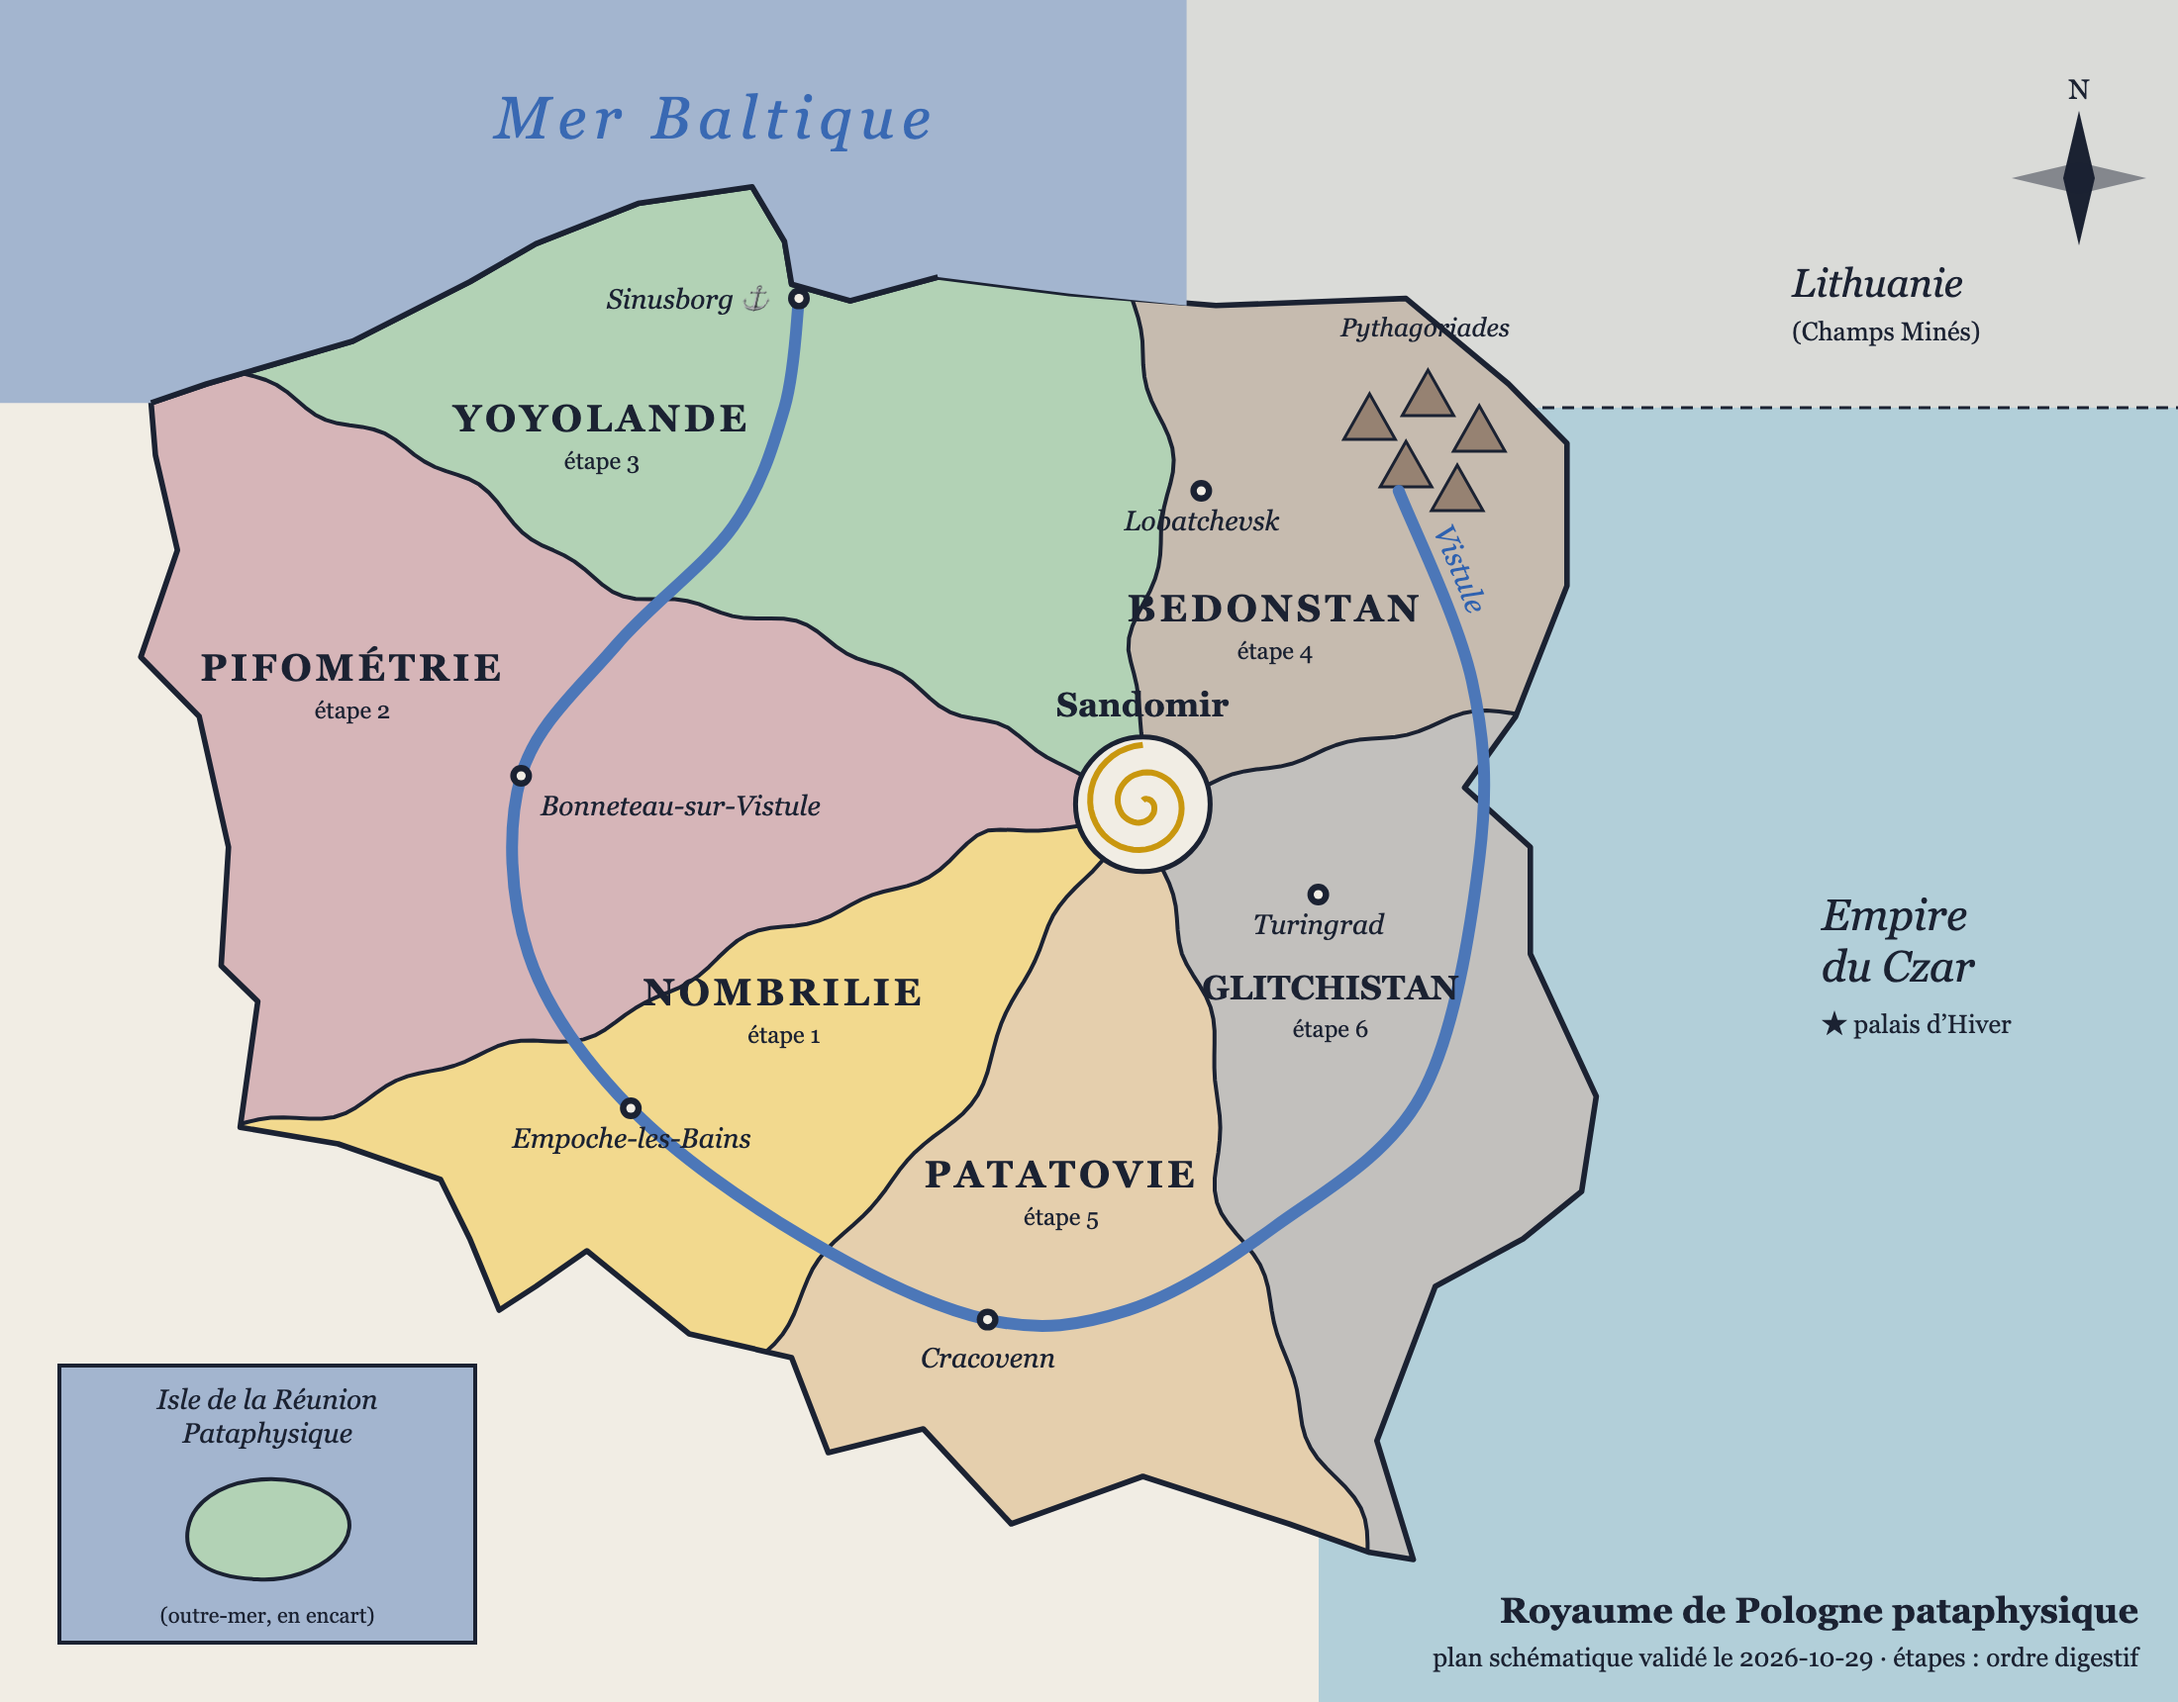
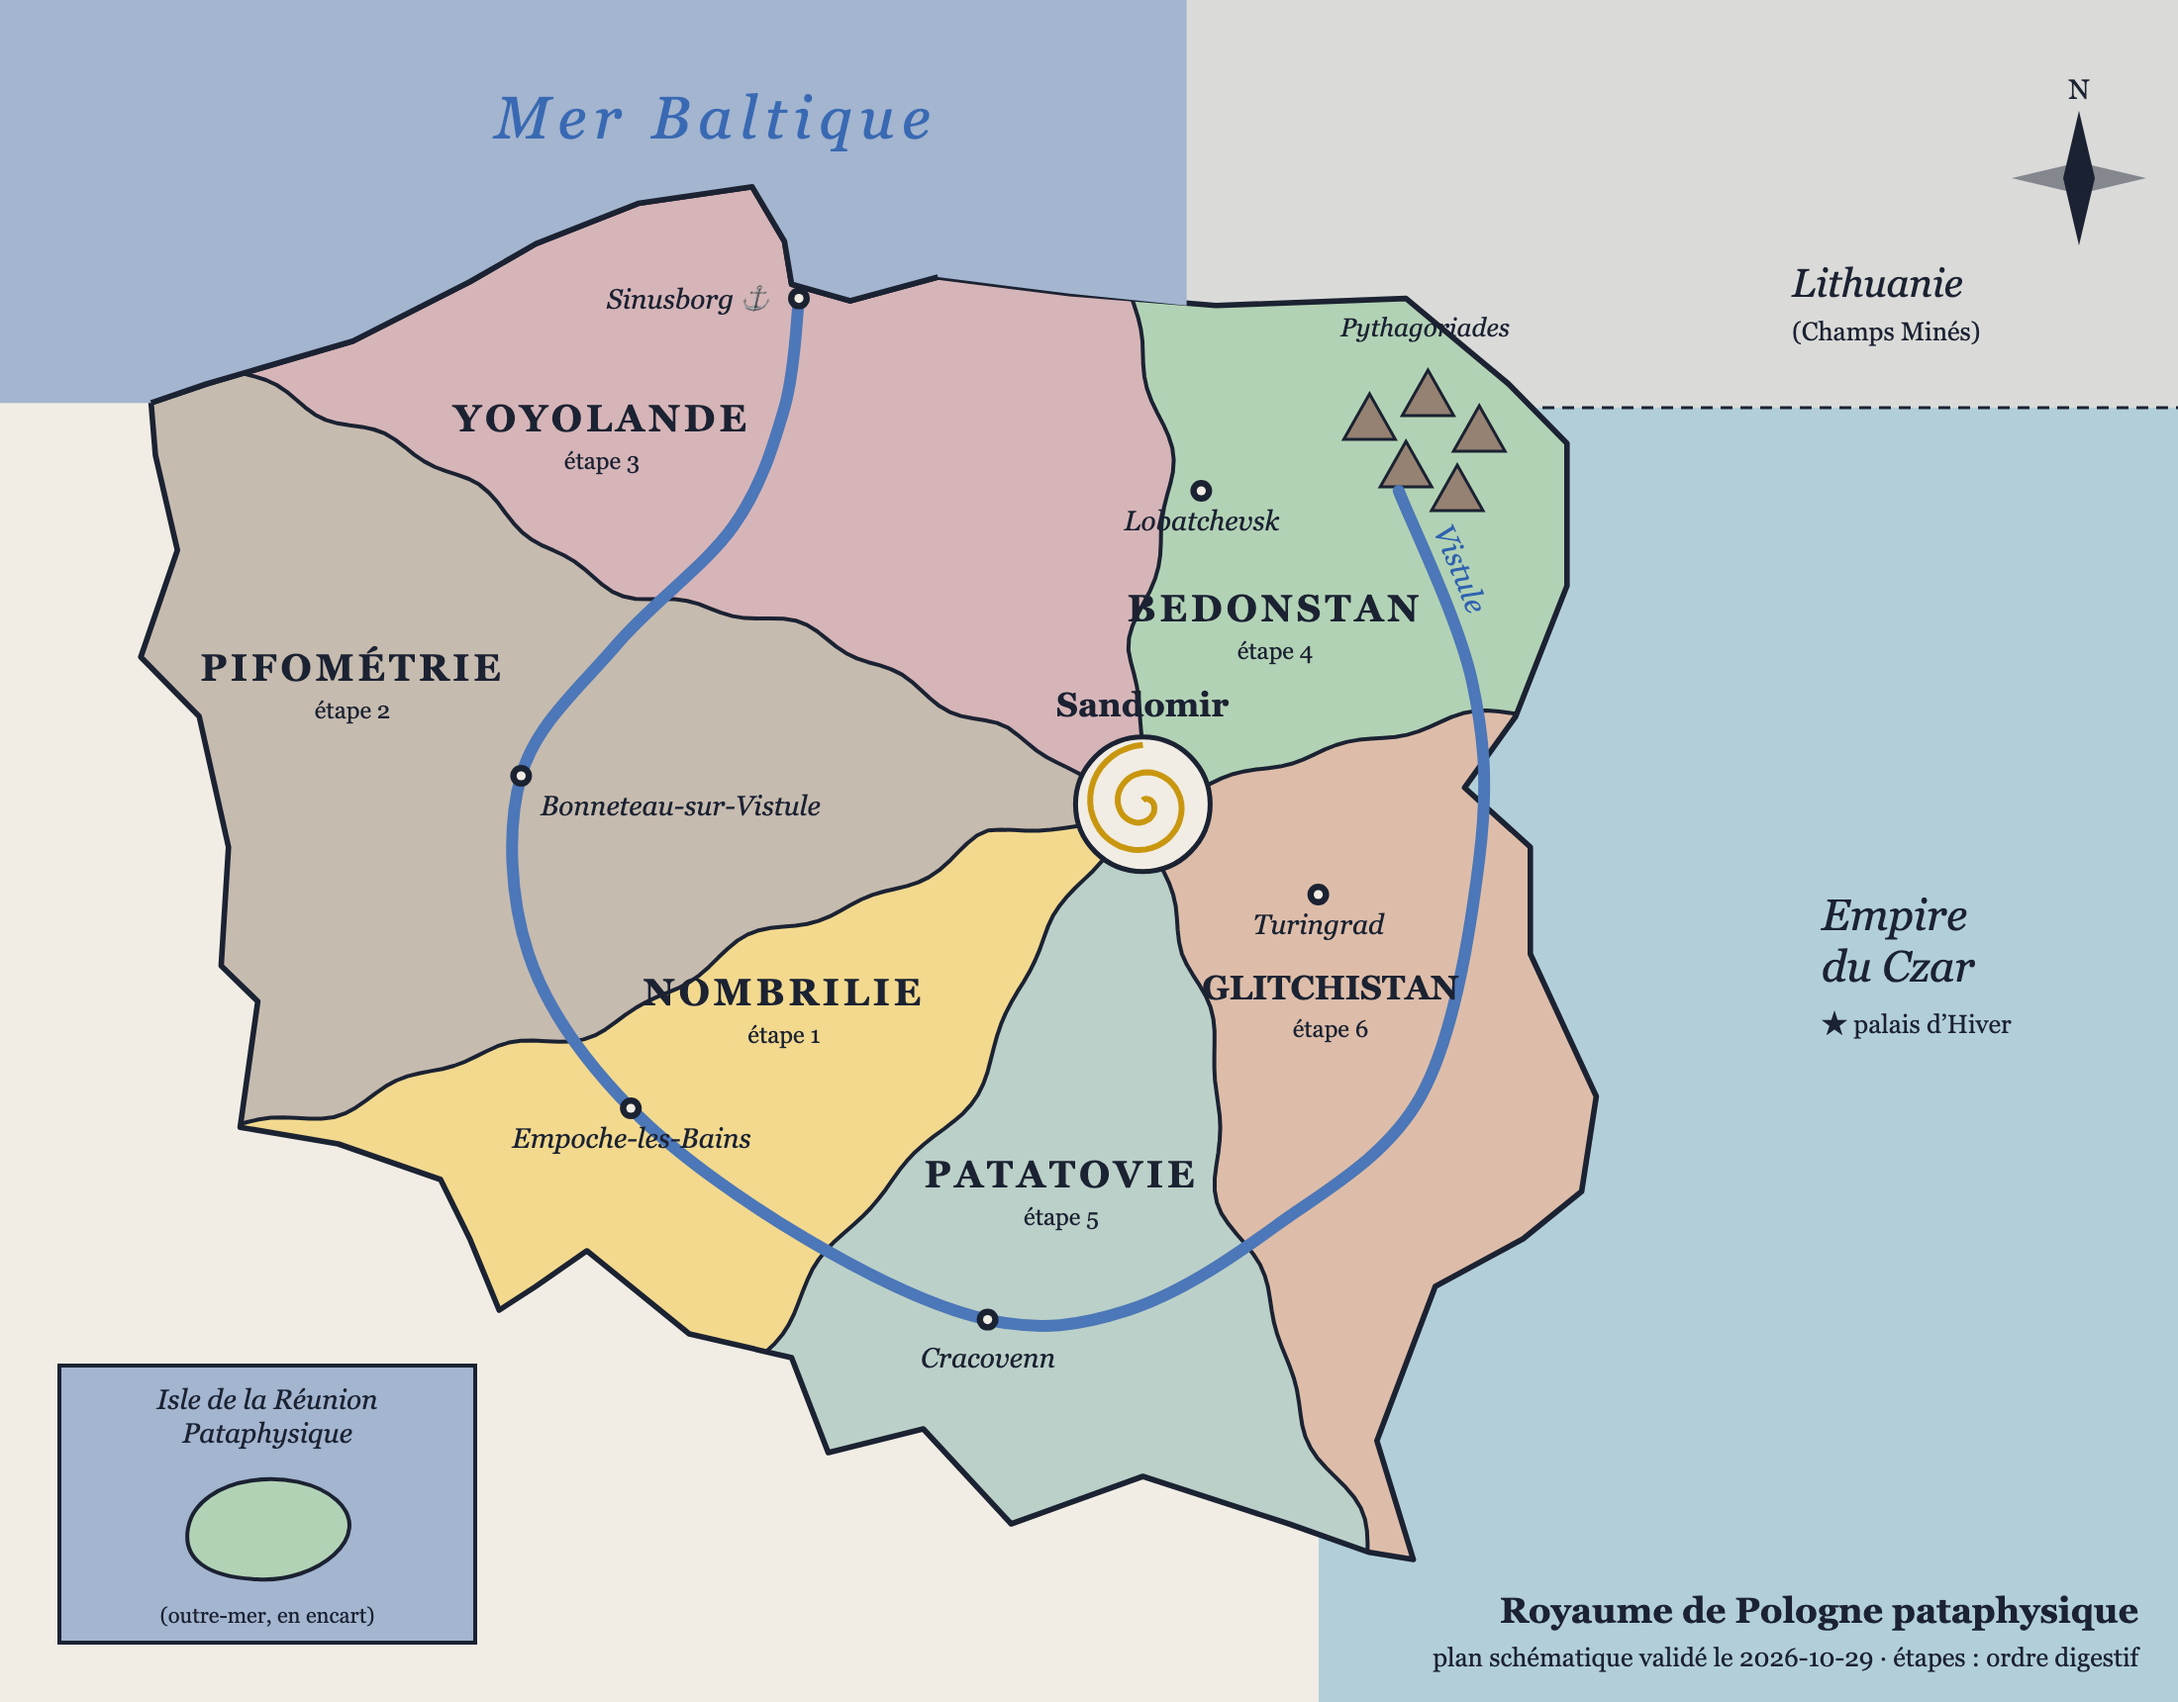
docs(lore): couleurs du plan de la carte, version sans texte

Changed region(s): [[0.34, 0.4006, 0.7418, 0.9244], [0.1236, 0.0924, 0.5564, 0.4622]]

diff --git a/docs/Chiphres/illustrations/carte/plan-schematique.py b/docs/Chiphres/illustrations/carte/plan-schematique.py
@@ -1,7 +1,9 @@
 # Plan schématique de la carte du Royaume (validé par David le 2026-10-29).
-# Usage : python3 plan-schematique.py plan-schematique.svg
+# Usage : python3 plan-schematique.py plan-schematique.svg [--sans-texte]
+# Couleurs des provinces : lignes « Pour l'illustration » du Compendium (2026-10-29).
+# --sans-texte : même plan sans aucun texte, pour servir de référence à l'IA (qui recopie les lettres).
 # Rendu PNG : Chromium de Playwright (viewport 1100×860, deviceScaleFactor 2) ; magick ne trouve pas les polices.
-import math, random, sys
+import math, random, re, sys
 
 W, H = 1100, 860
 INK = '#1B2232'
@@ -75,12 +77,12 @@ SEA = mix('#2F62B0', .40)
 RIVER = mix('#2F62B0', .85)
 # (nom, secteur (angle début, angle fin), teinte, capitale, position de la capitale, étape, position du nom)
 PROV = [
-    ('Yoyolande', (295, 360), mix('#1F9346', .30), 'Sinusborg', geo(18.65, 54.36), 3, geo(17.3, 53.8)),
-    ('Bedonstan', (0, 75), mix('#593B26', .28), 'Lobatchevsk', geo(21.4, 53.55), 4, geo(21.9, 53.0)),
-    ('Glitchistan', (75, 165), mix('#1B2232', .22), 'Turingrad', geo(22.2, 51.85), 6, geo(22.28, 51.41)),
-    ('Patatovie', (165, 215), mix('#C98A2E', .30), 'Cracovenn', geo(19.94, 50.06), 5, geo(20.44, 50.62)),
+    ('Yoyolande', (295, 360), mix('#8F2447', .28), 'Sinusborg', geo(18.65, 54.36), 3, geo(17.3, 53.8)),
+    ('Bedonstan', (0, 75), mix('#1F9346', .30), 'Lobatchevsk', geo(21.4, 53.55), 4, geo(21.9, 53.0)),
+    ('Glitchistan', (75, 165), mix('#AE4E1F', .30), 'Turingrad', geo(22.2, 51.85), 6, geo(22.28, 51.41)),
+    ('Patatovie', (165, 215), mix('#3E8E86', .30), 'Cracovenn', geo(19.94, 50.06), 5, geo(20.44, 50.62)),
     ('Nombrilie', (215, 250), mix('#F3C025', .45), 'Empoche-les-Bains', None, 1, geo(18.55, 51.38)),
-    ('Pifométrie', (250, 295), mix('#8F2447', .28), 'Bonneteau-sur-Vistule', None, 2, geo(15.6, 52.75)),
+    ('Pifométrie', (250, 295), mix('#593B26', .28), 'Bonneteau-sur-Vistule', None, 2, geo(15.6, 52.75)),
 ]
 
 # Vistule : Pythagoriades (Bedonstan) → Glitchistan → Cracovenn (Patatovie) → Nombrilie → Bonneteau (Pifométrie)
@@ -166,4 +168,7 @@ o.append(f'<text x="{W - 20}" y="{H - 40}" font-size="18" text-anchor="end" font
 o.append(f'<text x="{W - 20}" y="{H - 18}" font-size="13" text-anchor="end" fill="{INK}">plan schématique validé le 2026-10-29 · étapes : ordre digestif</text>')
 o.append('</svg>')
 
-open(sys.argv[1], 'w').write('\n'.join(o))
+svg = '\n'.join(o)
+if '--sans-texte' in sys.argv:
+    svg = re.sub(r'<text\b.*?</text>', '', svg, flags=re.S)
+open(sys.argv[1], 'w').write(svg)

diff --git a/docs/Chiphres/lore-pataphysique.md b/docs/Chiphres/lore-pataphysique.md
@@ -203,7 +203,7 @@ Le Royaume comporte **Six Provinces**, qui correspondent aux six grands domaines
 
 #### Carte du Royaume 🟡
 
-Décision de David (2026-10-29). Plan schématique : `docs/Chiphres/illustrations/carte/plan-schematique.svg` (et `.png`, généré par `plan-schematique.py`).
+Décision de David (2026-10-29). Plan schématique : `docs/Chiphres/illustrations/carte/plan-schematique.svg` (et `.png`, généré par `plan-schematique.py`, couleurs des provinces d'après leurs lignes « Pour l'illustration ») ; version sans texte pour servir de référence à l'IA : `plan-schematique-sans-texte.svg` / `.png`.
 
 - **Contour** : celui de la Pologne réelle, simplifié ; la Baltique au nord.
 - **Sandomir** à l'emplacement de Varsovie ; les six provinces rayonnent autour d'elle, frontières irrégulières : **Yoyolande** au nord (Sinusborg, port, à l'emplacement de Gdańsk), **Bedonstan** au nord-est (Lobatchevsk ; les Pythagoriades), **Glitchistan** à l'est (Turingrad, vers Lublin), **Patatovie** au sud (Cracovenn à l'emplacement de Cracovie), **Nombrilie** au sud-ouest (Empoche-les-Bains, sur la Vistule), **Pifométrie** à l'ouest (Bonneteau-sur-Vistule, vers Poznań). Les trois provinces de l'ouest sont plus vastes, Sandomir étant décalée vers l'est.
